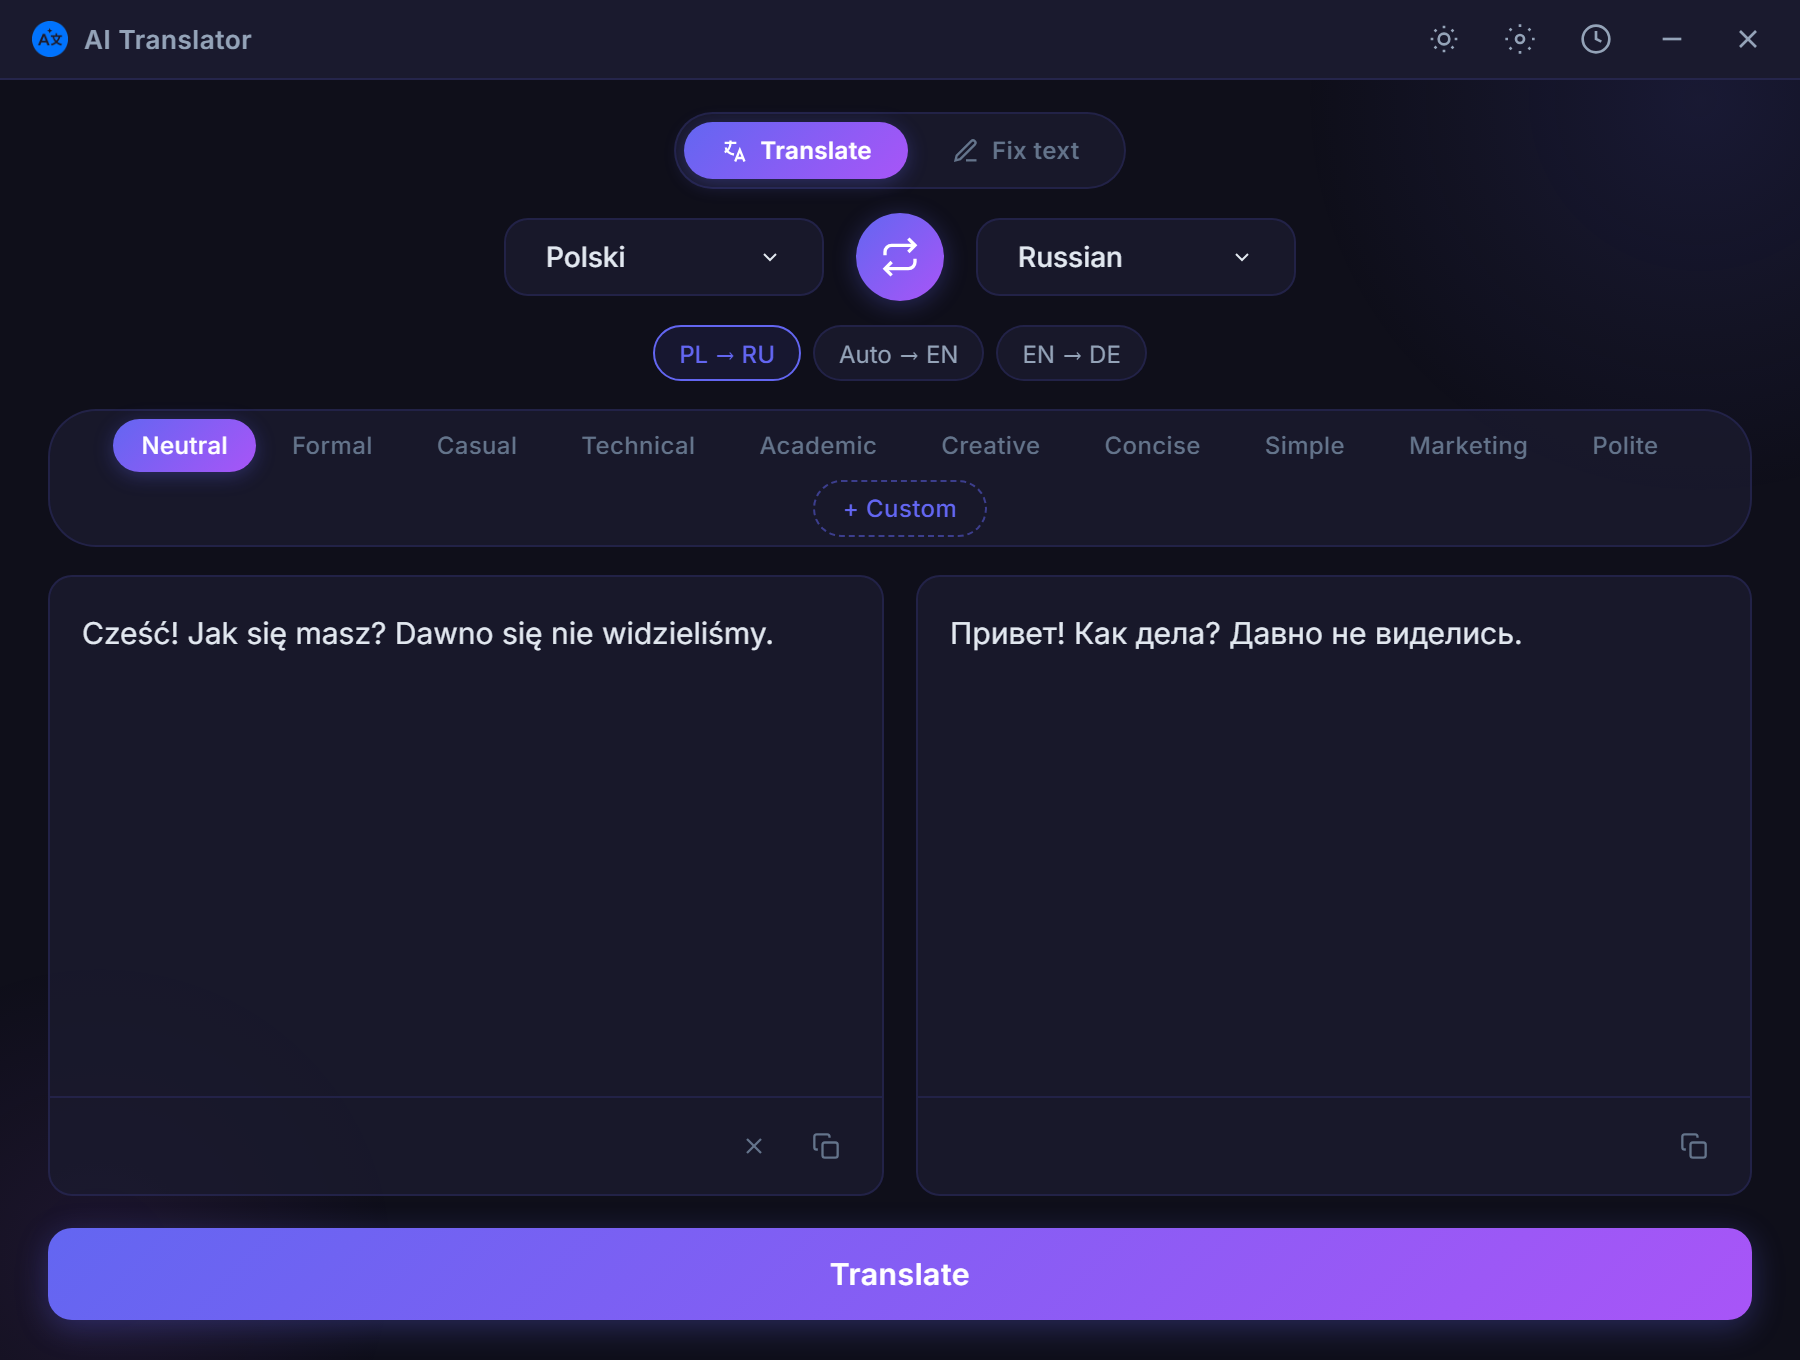
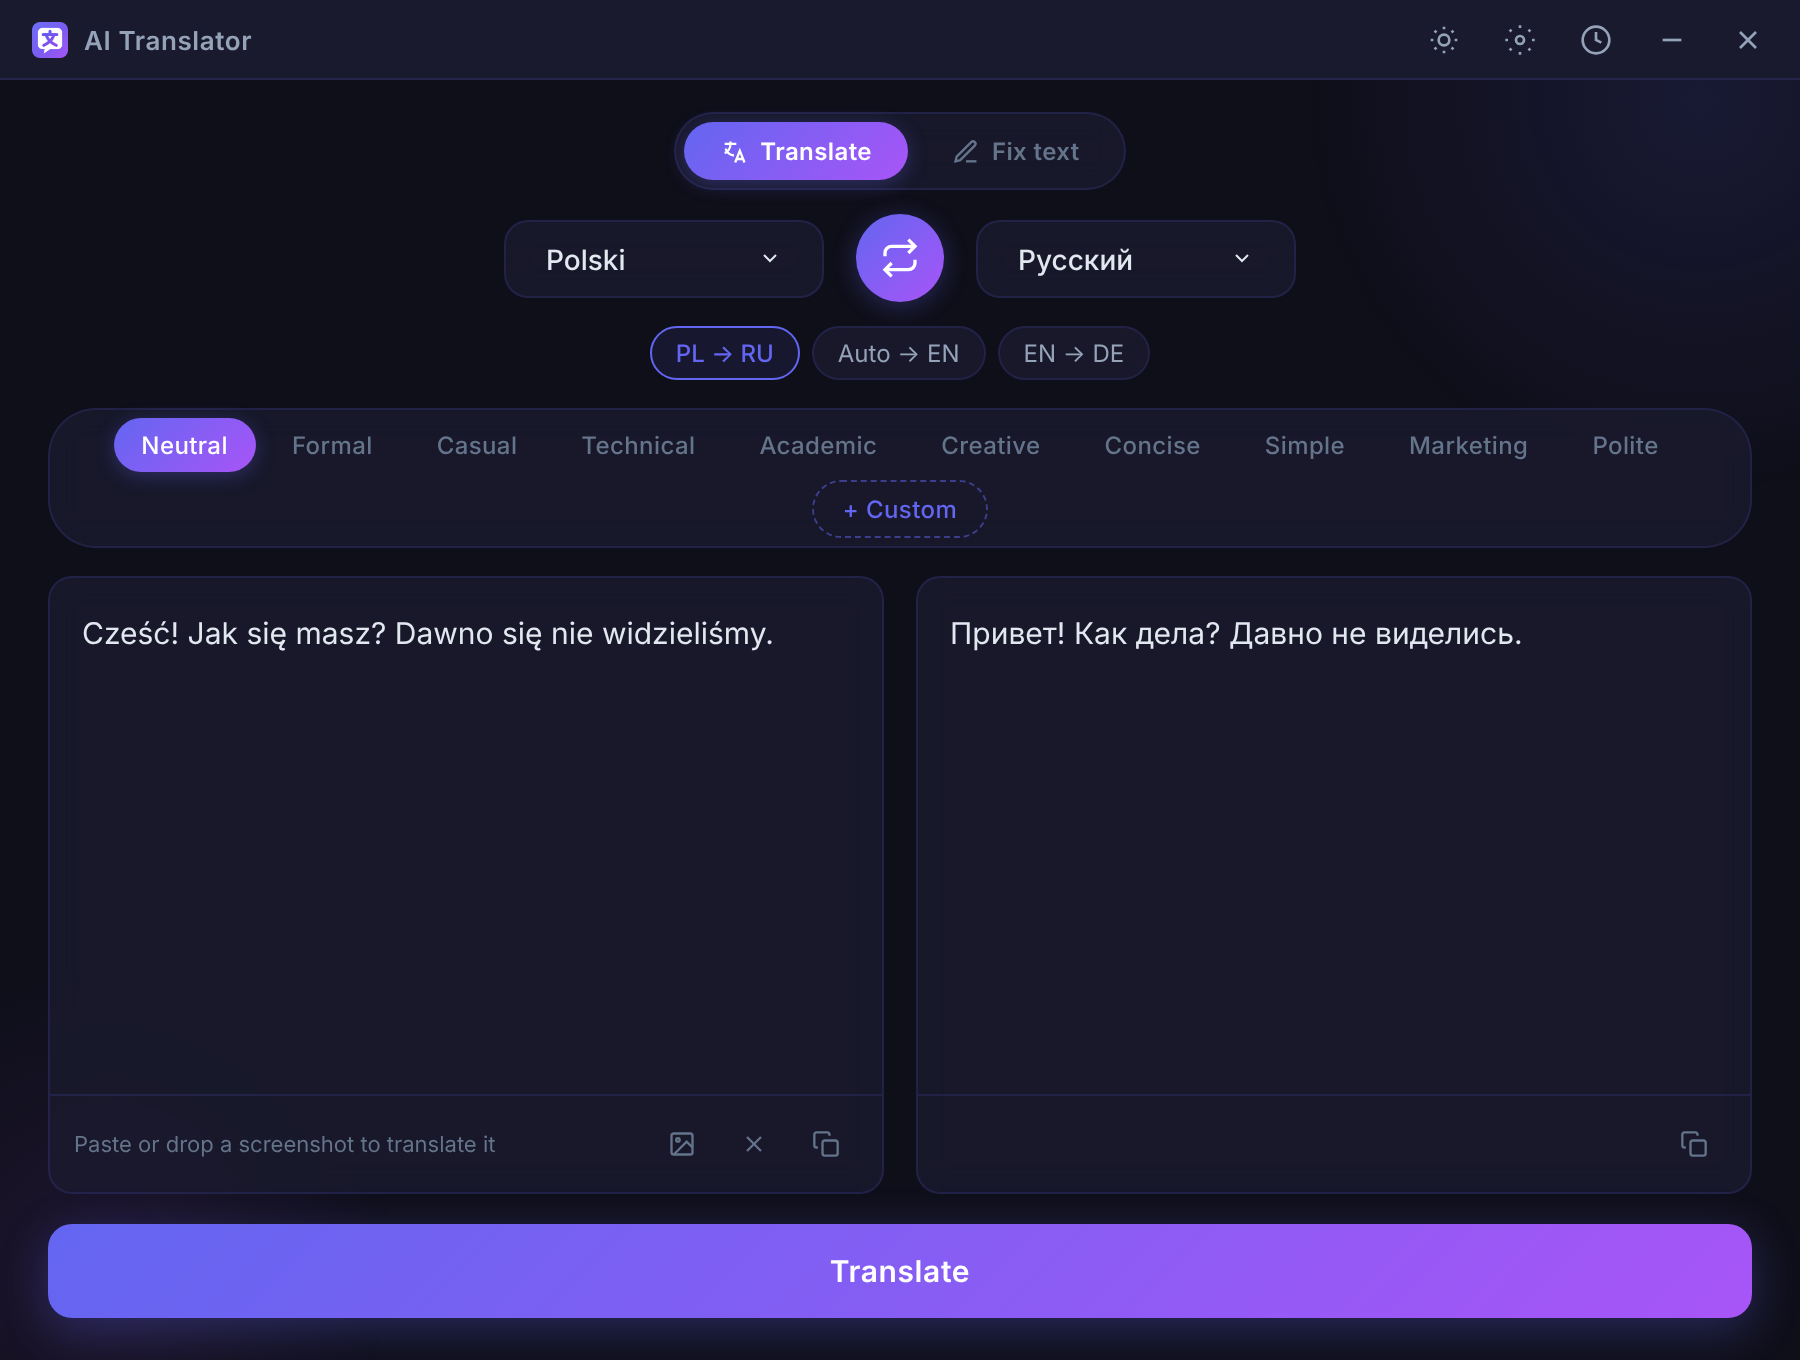
Drop code signing, notify-only updates on macOS, refresh README screenshots
Releases stay unsigned:
- The signing step is removed from the release workflow.
- macOS only lets an app replace itself with an update signed by the same
  Developer ID, so there the updater now only announces a new version and
  links to the releases page instead of downloading something it cannot
  install. Windows and Linux keep installing updates themselves.
- The README explains the first-launch warnings of unsigned builds
  (SmartScreen, Gatekeeper, "app is damaged") and how to get past them.

Screenshots:
- All README screenshots are re-taken with the current UI and icon, plus
  two new ones: translating a screenshot and the history view.
- The unused assets/screenshot.jpg is removed.
- History marks image entries with an SVG icon instead of the 🖼 emoji,
  which rendered differently (or not at all) depending on the OS fonts.

Claude-Session: https://claude.ai/code/session_01WqAAiSb3gZy52Tjoe4YmVG

diff --git a/renderer.js b/renderer.js
@@ -997,6 +997,7 @@ function renderEmptyHistory(container, message) {
 }
 
 const STAR_ICON = '<svg width="13" height="13" viewBox="0 0 24 24" fill="none" stroke="currentColor" stroke-width="2" stroke-linejoin="round"><polygon points="12 2 15.09 8.26 22 9.27 17 14.14 18.18 21.02 12 17.77 5.82 21.02 7 14.14 2 9.27 8.91 8.26 12 2"/></svg>';
+const IMAGE_ICON = '<svg width="13" height="13" viewBox="0 0 24 24" fill="none" stroke="currentColor" stroke-width="2"><rect x="3" y="3" width="18" height="18" rx="2"/><circle cx="8.5" cy="8.5" r="1.5"/><polyline points="21 15 16 10 5 21"/></svg>';
 const DELETE_ICON = '<svg width="12" height="12" viewBox="0 0 24 24" fill="none" stroke="currentColor" stroke-width="2"><line x1="18" y1="6" x2="6" y2="18"/><line x1="6" y1="6" x2="18" y2="18"/></svg>';
 
 function renderHistory() {
@@ -1047,7 +1048,7 @@ function renderHistory() {
           <button class="history-item-delete" title="Delete">${DELETE_ICON}</button>
         </div>
       </div>
-      <div class="history-item-source">${item.image ? '<span class="history-item-image">🖼 Text from an image</span>' : highlightMatches(item.sourceText, query)}</div>
+      <div class="history-item-source">${item.image ? `<span class="history-item-image">${IMAGE_ICON}Text from an image</span>` : highlightMatches(item.sourceText, query)}</div>
       <div class="history-item-target">${highlightMatches(item.targetText, query)}</div>
     `;
 
@@ -1420,7 +1421,6 @@ $('#link-repo').addEventListener('click', (e) => {
 // Packaged builds update themselves through electron-updater; `npm start`
 // and builds it cannot update fall back to a plain "a new version exists" check.
 const RELEASES_PAGE = 'https://github.com/PabloSensei/ai-translator/releases/latest';
-let autoUpdateSupported = false;
 let lastUpdateState = null;
 
 function releasesLink(text) {
@@ -1439,7 +1439,7 @@ function renderUpdateStatus(status) {
     const el = $('#update-status');
     el.className = 'update-status';
     el.textContent = '';
-    $('#btn-download-update').hidden = status.state !== 'available';
+    $('#btn-download-update').hidden = status.state !== 'available' || Boolean(status.manual);
     $('#btn-install-update').hidden = status.state !== 'downloaded';
 
     const version = status.version ? `Version ${status.version}` : 'A new version';
@@ -1452,7 +1452,9 @@ function renderUpdateStatus(status) {
             break;
         case 'available':
             el.classList.add('update-available');
-            el.textContent = `${version} is available (you have ${status.currentVersion}).`;
+            el.textContent = `${version} is available (you have ${status.currentVersion}). `;
+            // Builds that cannot install updates themselves (macOS) link to the download.
+            if (status.manual) el.appendChild(releasesLink('Download it from GitHub'));
             break;
         case 'downloading':
             el.textContent = `Downloading ${version.toLowerCase()}... ${status.percent || 0}%`;
@@ -1481,13 +1483,11 @@ function renderUpdateStatus(status) {
 window.api.onUpdateStatus(renderUpdateStatus);
 
 async function initUpdates(settings) {
-    autoUpdateSupported = Boolean(settings.autoUpdateSupported);
-    $('#auto-update-row').hidden = !autoUpdateSupported;
+    $('#auto-update-row').hidden = !settings.autoUpdateSupported;
     $('#auto-update-checkbox').checked = settings.autoUpdate !== false;
-    if (autoUpdateSupported) {
-        const status = await window.api.getUpdateStatus();
-        if (status && status.state !== 'idle') renderUpdateStatus(status);
-    }
+    // Also on macOS, where updates are announced rather than installed.
+    const status = await window.api.getUpdateStatus();
+    if (status && status.state !== 'idle') renderUpdateStatus(status);
 }
 
 $('#auto-update-checkbox').addEventListener('change', async (e) => {

diff --git a/lib/updater.js b/lib/updater.js
@@ -3,6 +3,10 @@
 // passed in rather than required here, so the logic runs in tests with a fake
 // and electron-updater is only loaded inside a packaged app.
 
+// macOS only lets an app replace itself when the update is signed with the
+// same Developer ID; the releases are not signed, so there it only notifies.
+const CAN_INSTALL_UPDATES = process.platform !== 'darwin';
+
 const CHECK_DELAY_MS = 10 * 1000;
 const CHECK_INTERVAL_MS = 6 * 60 * 60 * 1000;
 
@@ -28,18 +32,21 @@ function describeUpdateError(err) {
  * @param {import('events').EventEmitter & {checkForUpdates: Function, downloadUpdate: Function, quitAndInstall: Function}} options.updater
  * @param {string} options.currentVersion
  * @param {boolean} [options.autoDownload]
+ * @param {boolean} [options.canInstall] - false where the app cannot replace
+ *   itself (an unsigned macOS build): updates are announced, never downloaded,
+ *   and the status carries `manual: true` so the UI links to the releases page.
  * @param {(status: object) => void} [options.onStatus]
  */
-function createUpdater({ updater, currentVersion, autoDownload = true, onStatus = () => {} }) {
+function createUpdater({ updater, currentVersion, autoDownload = true, canInstall = true, onStatus = () => {} }) {
   // state: idle | checking | latest | available | downloading | downloaded | error
   let status = { state: 'idle', currentVersion };
 
   const set = (patch) => {
-    status = { currentVersion, ...patch };
+    status = { currentVersion, ...patch, ...(canInstall ? {} : { manual: true }) };
     onStatus(status);
   };
 
-  updater.autoDownload = autoDownload;
+  updater.autoDownload = canInstall && autoDownload;
   // A downloaded update is applied the next time the app quits anyway.
   updater.autoInstallOnAppQuit = true;
 
@@ -74,6 +81,7 @@ function createUpdater({ updater, currentVersion, autoDownload = true, onStatus 
     },
 
     async download() {
+      if (!canInstall) return status;
       if (status.state !== 'available' && status.state !== 'error') return status;
       set({ state: 'downloading', version: status.version, percent: 0 });
       try {
@@ -93,9 +101,9 @@ function createUpdater({ updater, currentVersion, autoDownload = true, onStatus 
     },
 
     setAutoDownload(value) {
-      updater.autoDownload = Boolean(value);
+      updater.autoDownload = canInstall && Boolean(value);
     }
   };
 }
 
-module.exports = { createUpdater, describeUpdateError, CHECK_DELAY_MS, CHECK_INTERVAL_MS, RELEASES_URL };
+module.exports = { createUpdater, describeUpdateError, CAN_INSTALL_UPDATES, CHECK_DELAY_MS, CHECK_INTERVAL_MS, RELEASES_URL };

diff --git a/main.js b/main.js
@@ -24,7 +24,7 @@ const {
   getProvider
 } = require('./lib/providers');
 const { trimHistory, formatHistoryExport, EXPORT_FORMATS } = require('./lib/history');
-const { createUpdater, CHECK_DELAY_MS, CHECK_INTERVAL_MS, RELEASES_URL } = require('./lib/updater');
+const { createUpdater, CAN_INSTALL_UPDATES, CHECK_DELAY_MS, CHECK_INTERVAL_MS, RELEASES_URL } = require('./lib/updater');
 
 // electron-store — ESM-only module starting from v9, use dynamic import
 let Store;
@@ -386,6 +386,7 @@ function initAutoUpdater() {
     updater: autoUpdater,
     currentVersion: app.getVersion(),
     autoDownload: settingsStore.get('autoUpdate') !== false,
+    canInstall: CAN_INSTALL_UPDATES,
     onStatus: (status) => {
       if (mainWindow && !mainWindow.isDestroyed()) mainWindow.webContents.send('update-status', status);
       if (tray && !tray.isDestroyed()) tray.setContextMenu(buildTrayMenu());
@@ -566,8 +567,8 @@ function setupIPC() {
       defaultGeminiModels: DEFAULT_GEMINI_MODELS,
       defaultAnthropicModels: DEFAULT_ANTHROPIC_MODELS,
       autoUpdate: settingsStore.get('autoUpdate') !== false,
-      // False in development and in builds electron-updater cannot update.
-      autoUpdateSupported: Boolean(updater),
+      // False in development; on macOS updates are announced but not installed.
+      autoUpdateSupported: Boolean(updater) && CAN_INSTALL_UPDATES,
       version: app.getVersion()
     };
   });

diff --git a/tests/updater.test.js b/tests/updater.test.js
@@ -90,3 +90,17 @@ test('describeUpdateError explains the common failures', () => {
   assert.strictEqual(describeUpdateError(new Error('first line\nstack')), 'first line');
   assert.strictEqual(describeUpdateError(undefined), 'Unknown error');
 });
+
+test('where the app cannot install updates, it only announces them', async () => {
+  const updater = fakeUpdater();
+  const u = createUpdater({ updater, currentVersion: '1.1.0', autoDownload: true, canInstall: false });
+  assert.strictEqual(updater.autoDownload, false);
+  const status = await u.check();
+  assert.deepStrictEqual(status, { currentVersion: '1.1.0', state: 'available', version: '1.2.0', percent: 0, manual: true });
+
+  u.setAutoDownload(true);
+  assert.strictEqual(updater.autoDownload, false);
+  await u.download();
+  assert.deepStrictEqual(updater.calls, ['check'], 'never downloads');
+  assert.strictEqual(u.install(), false);
+});

diff --git a/styles.css b/styles.css
@@ -1411,6 +1411,9 @@ body::after {
 }
 
 .history-item-image {
+    display: inline-flex;
+    align-items: center;
+    gap: 6px;
     font-style: italic;
 }
 

diff --git a/README.md b/README.md
@@ -50,6 +50,8 @@
 | <img src="assets/screenshot-dark.png" width="420" alt="Main interface in the dark theme"> | <img src="assets/screenshot-light.png" width="420" alt="Main interface in the light theme"> |
 | **Fix text mode** | **Settings** |
 | <img src="assets/screenshot-fix.png" width="420" alt="Fix text mode correcting spelling and grammar"> | <img src="assets/screenshot-settings.png" width="420" alt="Settings with theme, provider and model options"> |
+| **Text from a screenshot** | **History** |
+| <img src="assets/screenshot-image.png" width="420" alt="A Japanese notice pasted as an image and translated into English"> | <img src="assets/screenshot-history.png" width="420" alt="History with search, favorites and export"> |
 
 </div>
 
@@ -71,6 +73,12 @@ Download the latest version from [Releases](https://github.com/PabloSensei/ai-tr
 | 🐧 **Linux** | `AI-Translator-<version>-x86_64.AppImage` or `ai-translator_<version>_amd64.deb` |
 
 After downloading, install and launch — no Node.js or npm required.
+
+The builds are not code-signed, so the OS warns on the first launch:
+
+- **Windows** — SmartScreen shows *"Windows protected your PC"*: click **More info → Run anyway**.
+- **macOS** — right-click the app in *Applications* and choose **Open**, then **Open** again (or *System Settings → Privacy & Security → Open Anyway*). If macOS says the app *"is damaged"*, run `xattr -cr "/Applications/AI Translator.app"` once.
+- **Linux** — make the AppImage executable: `chmod +x AI-Translator-*.AppImage`.
 
 ### Build from Source
 
@@ -164,7 +172,7 @@ Untick *Download updates automatically* to be asked first. Running from source (
 | Windows (installer) | ✅ |
 | Linux AppImage | ✅ |
 | Linux `.deb` | ✅ (asks for your password to install) |
-| macOS | ✅ only for signed builds — macOS refuses to update an unsigned app, so unsigned builds link to the releases page instead |
+| macOS | 🔔 notifies and links to the download — macOS only lets signed apps replace themselves |
 
 ### Global Hotkeys
 
@@ -181,23 +189,6 @@ Both are configurable in ⚙ Settings: click the field and press the new comb
 - **Search** filters by words in the original or the translation
 - ★ marks a favorite: favorites are never pushed out by new translations, survive **Clear**, and have their own filter
 - **Export** saves the entries currently shown as CSV (opens in Excel / Google Sheets), JSON or Markdown
-
-## 🔏 Code signing
-
-Release builds are signed when the certificates are present as repository secrets (Settings → Secrets and variables → Actions); without them the workflow still builds, just unsigned.
-
-| Secret | What it is |
-|--------|------------|
-| `WIN_CERTIFICATE` | Windows code-signing certificate (`.pfx`), base64-encoded: `base64 -w0 cert.pfx` |
-| `WIN_CERTIFICATE_PASSWORD` | Its password |
-| `MAC_CERTIFICATE` | *Developer ID Application* certificate exported from Keychain as `.p12`, base64-encoded |
-| `MAC_CERTIFICATE_PASSWORD` | Its password |
-| `APPLE_ID` | Apple ID used for notarization |
-| `APPLE_APP_SPECIFIC_PASSWORD` | An [app-specific password](https://support.apple.com/102654) for that Apple ID |
-| `APPLE_TEAM_ID` | Your 10-character Apple Developer Team ID |
-
-- **Windows** — unsigned installers work, but SmartScreen warns on first run until the certificate builds reputation.
-- **macOS** — a signed *and* notarized build opens without Gatekeeper warnings and is required for automatic updates. Both need a paid Apple Developer account.
 
 ## 🛠 Technologies
 
